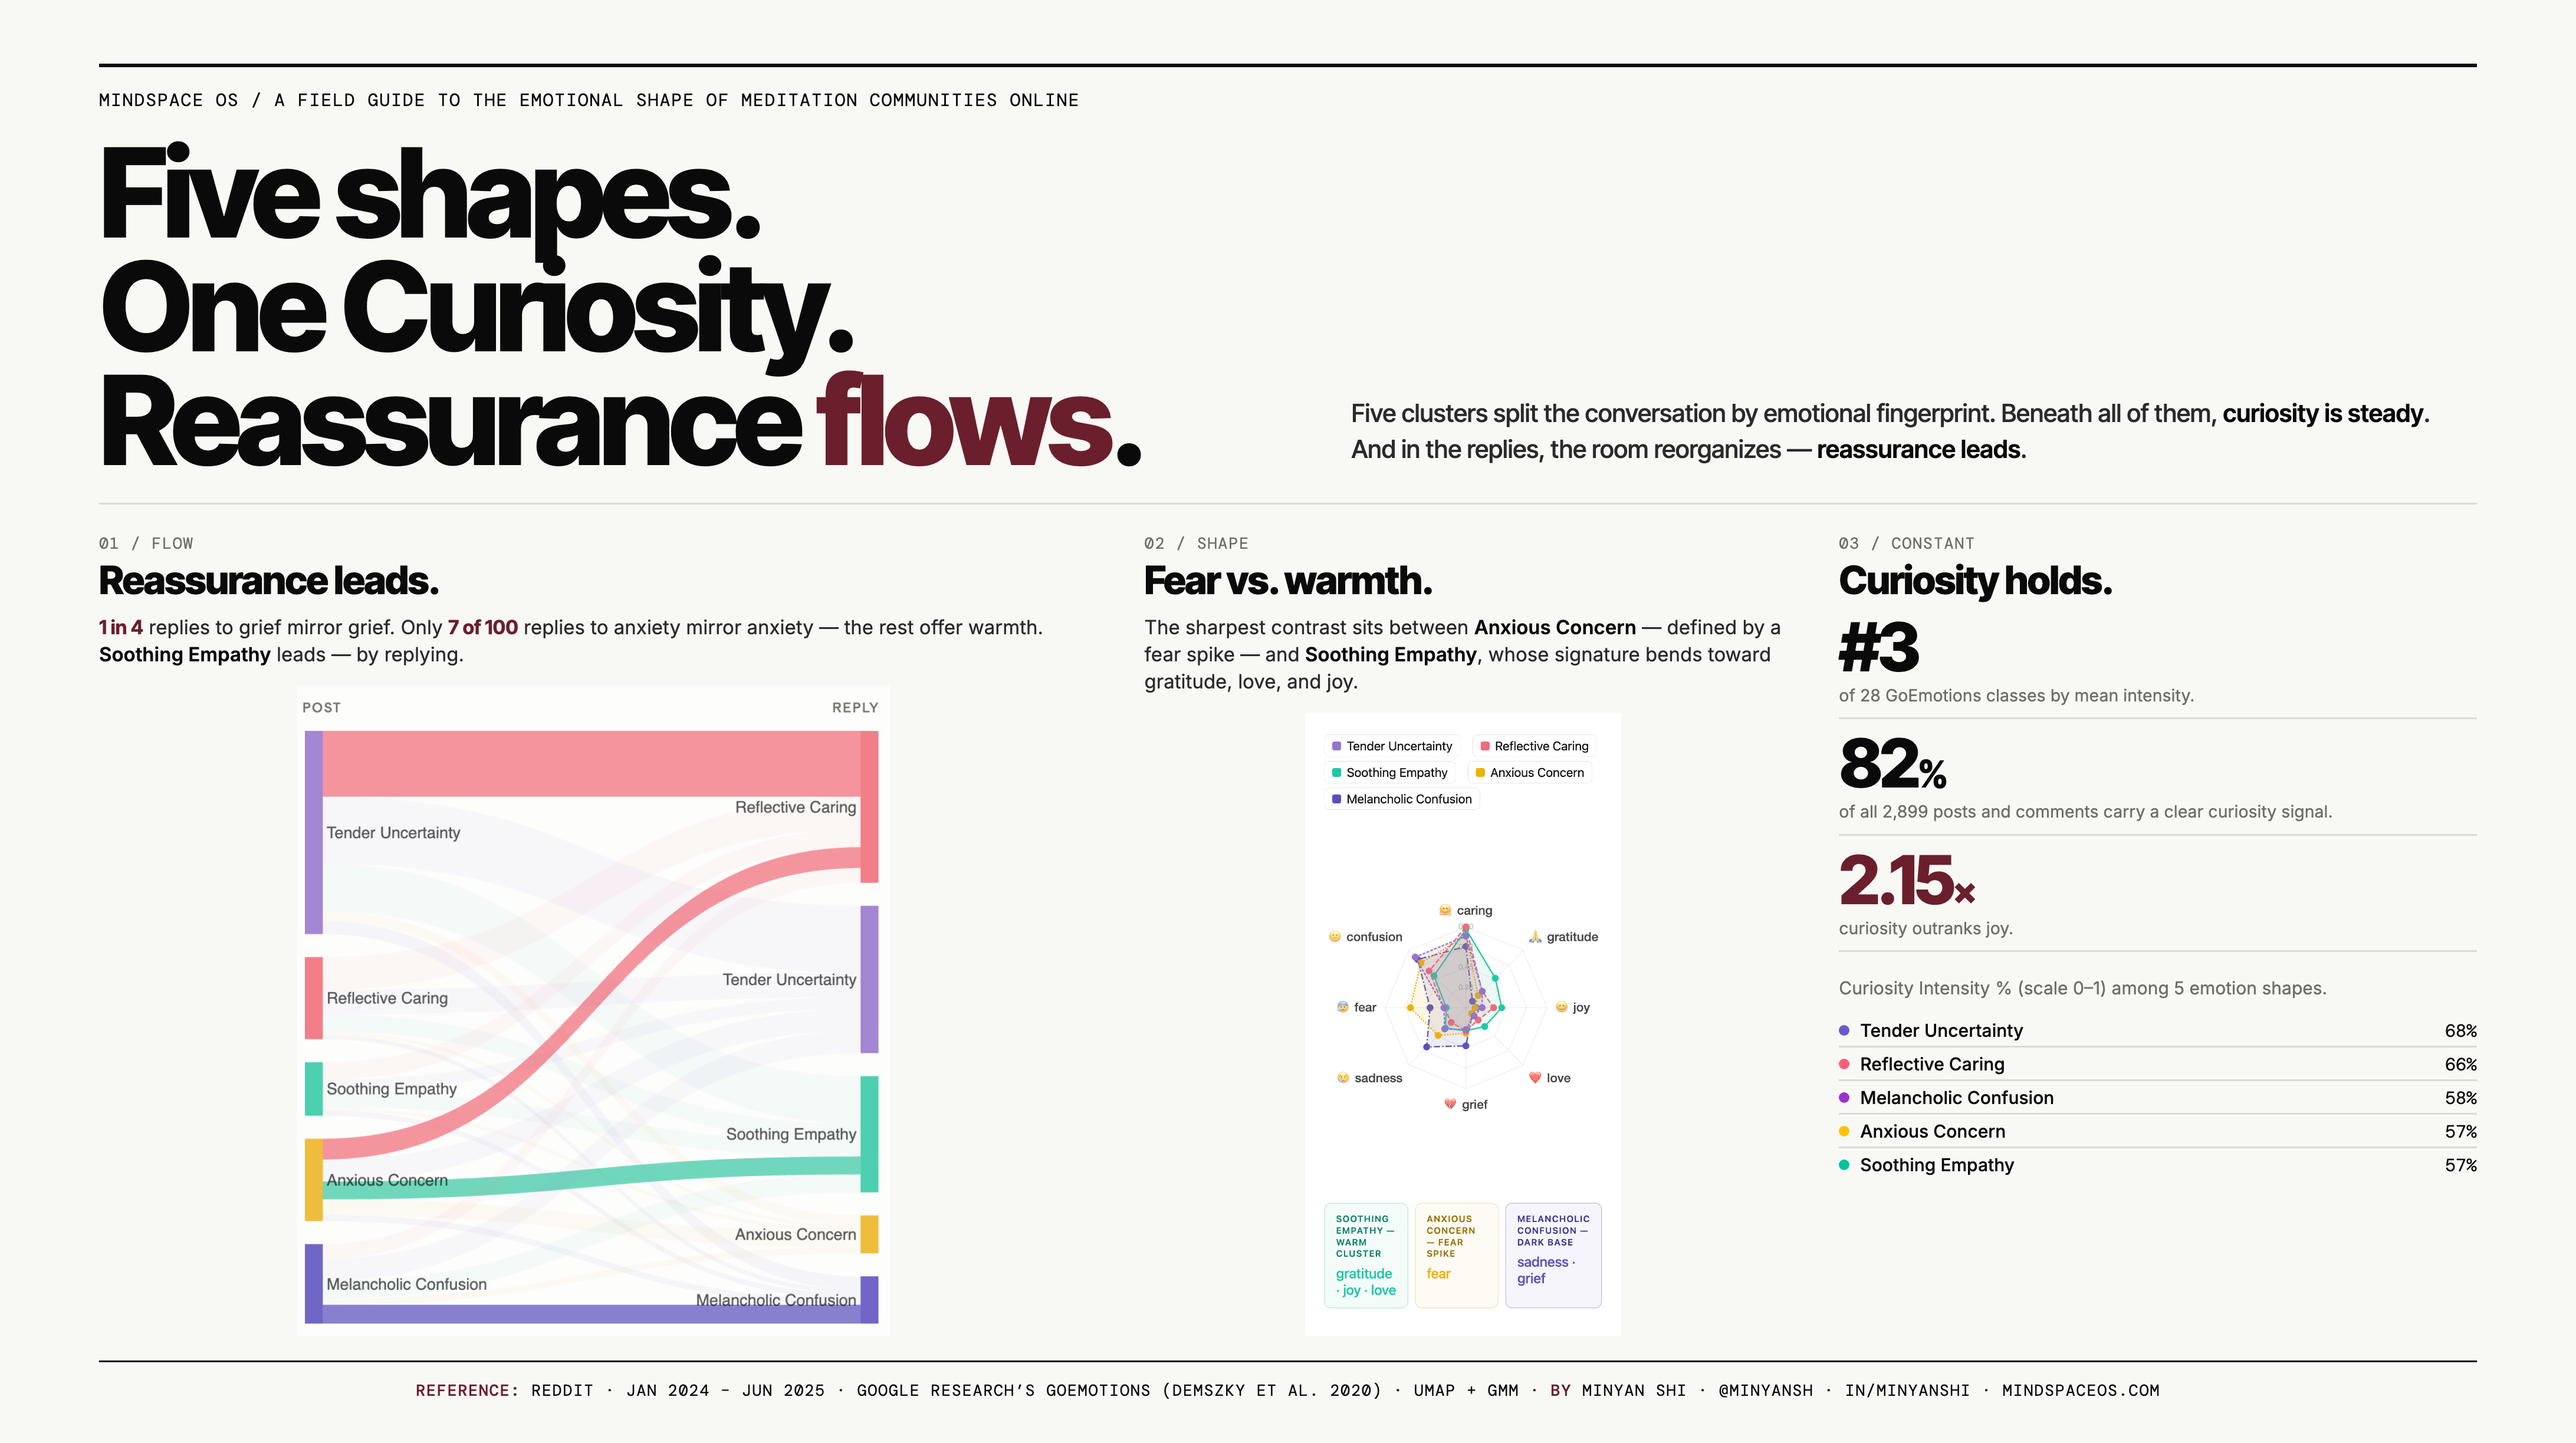
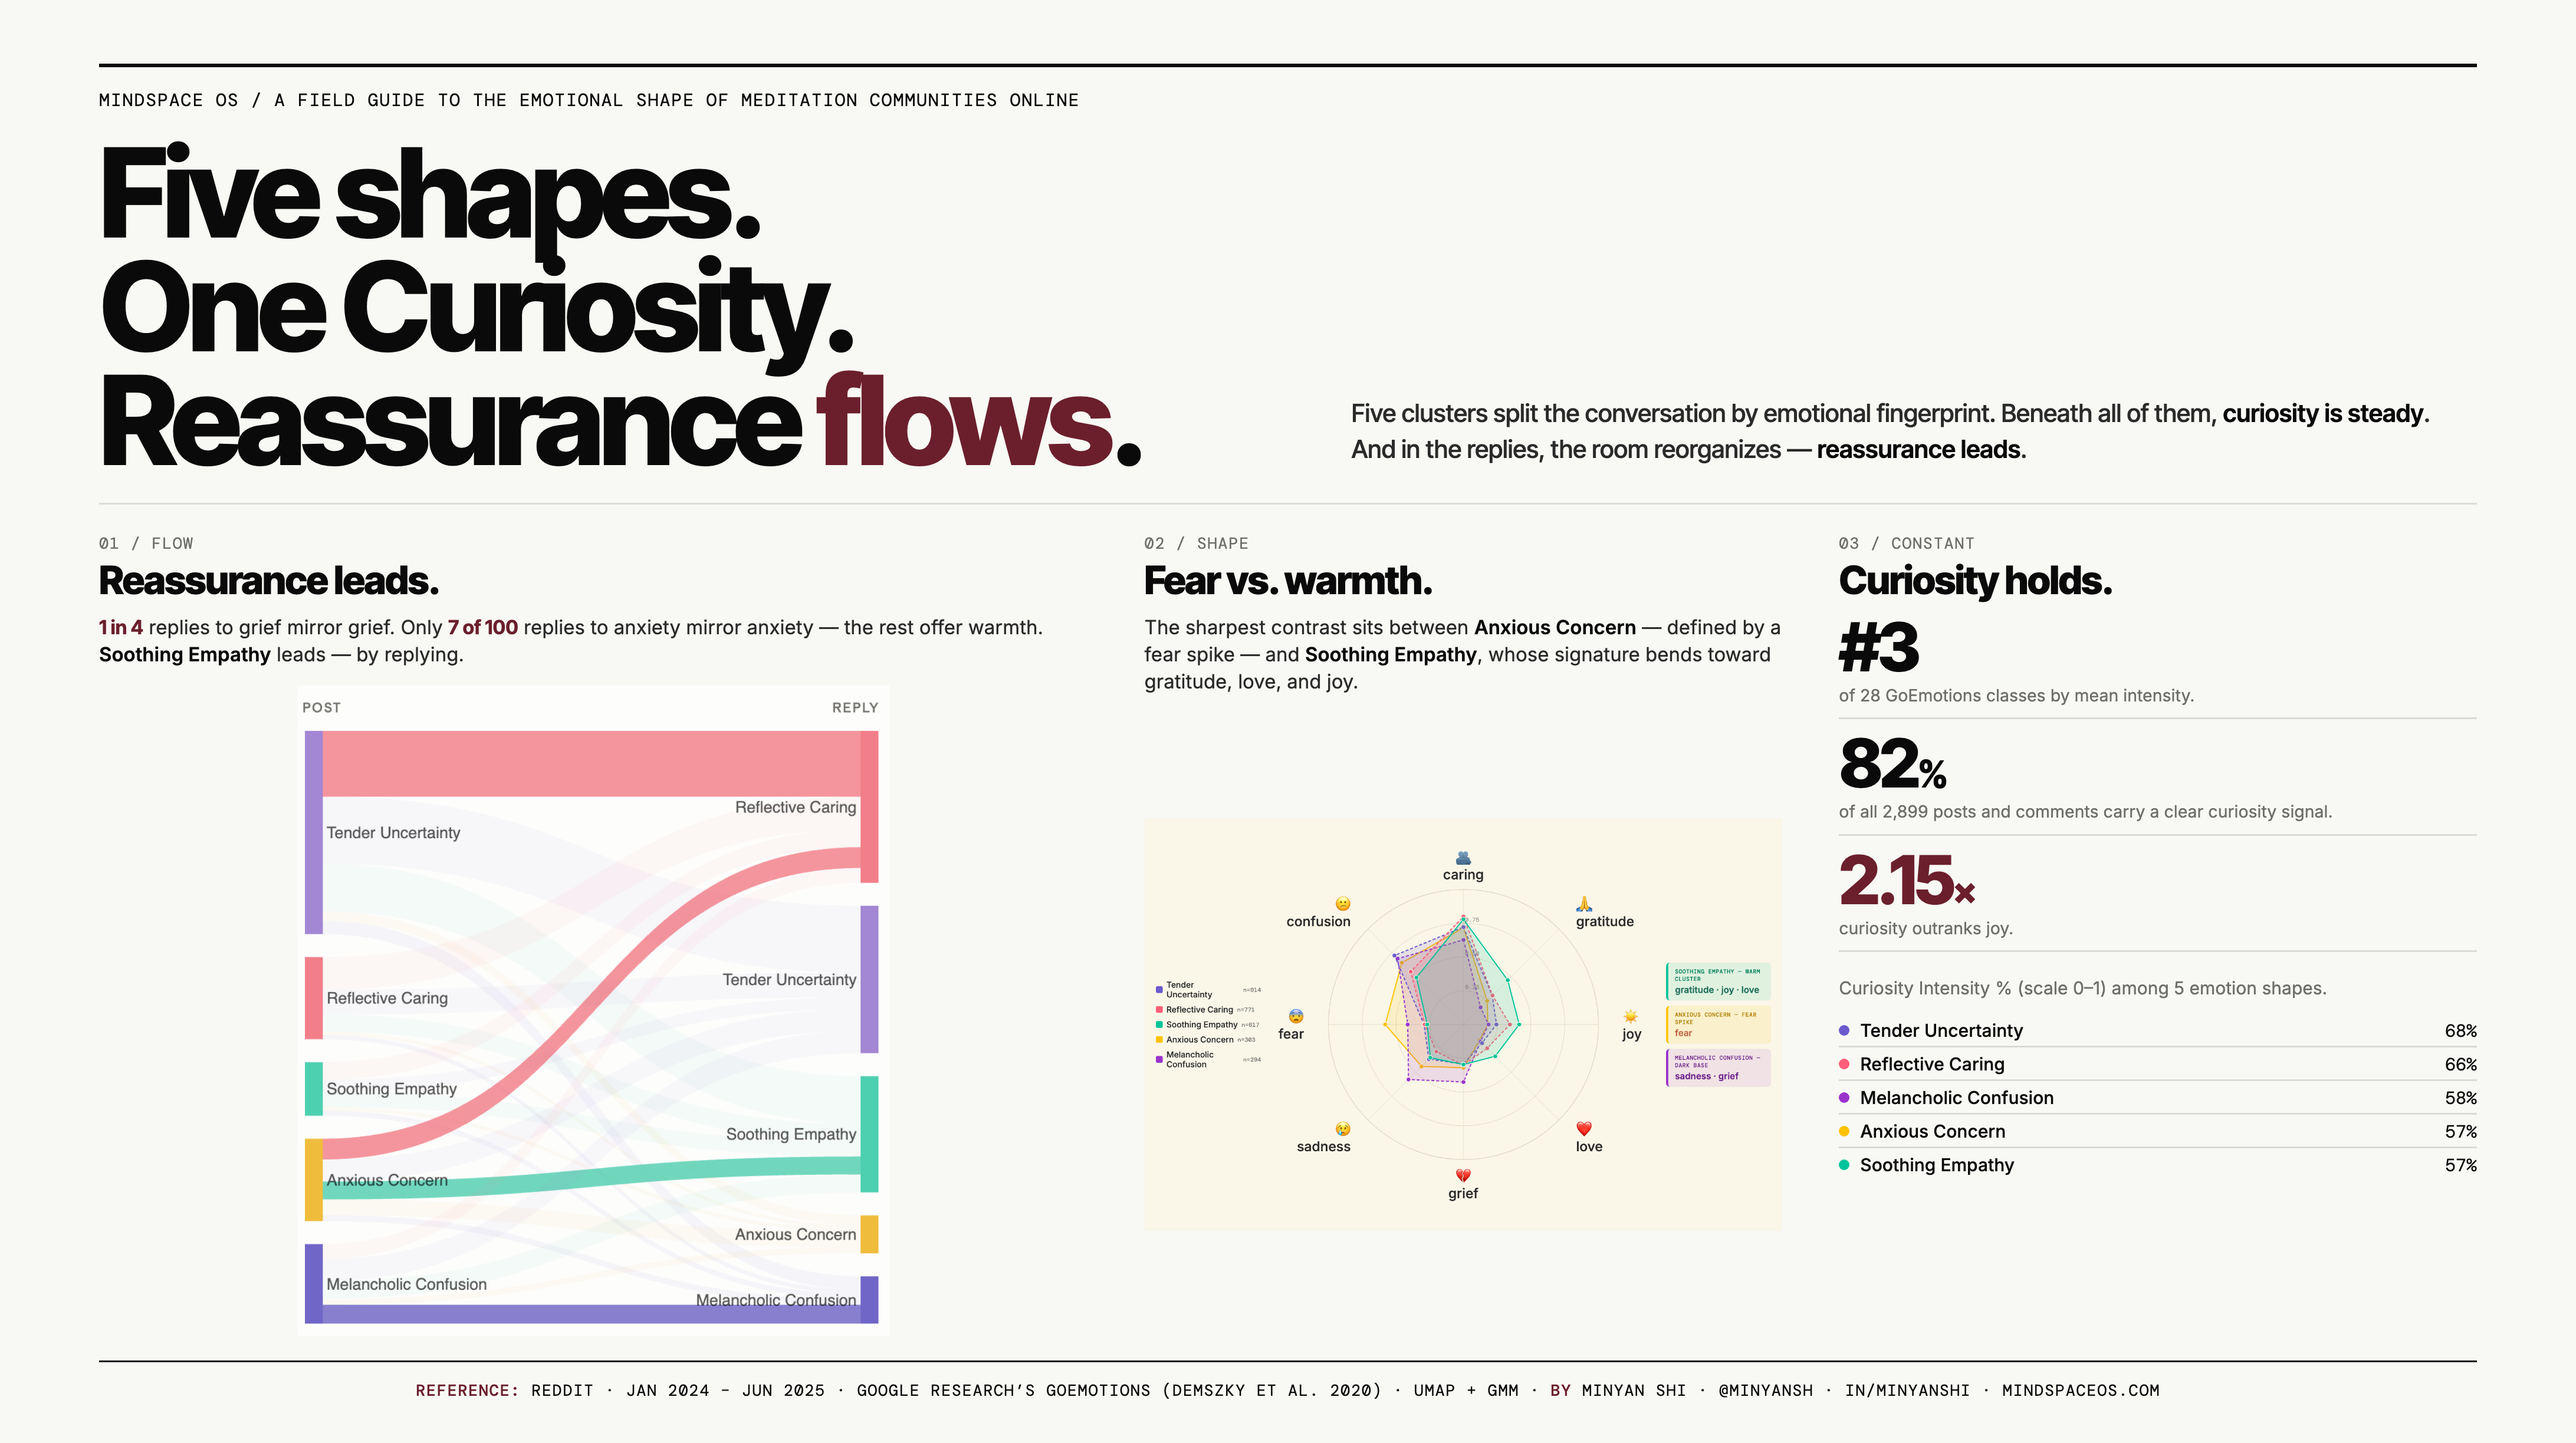
fix(featured): landscape-specific radar source (option a) (#73)
The portrait radar in PR #71 read clean for square layouts but compressed
in landscape (the Shape panel is portrait-aspect inside a landscape grid,
so the portrait radar fits to width then leaves vertical whitespace).

This PR adds a separate landscape-aspect radar source where the legend
sits on the LEFT, the radar plot in the MIDDLE, and the 3 cluster callouts
on the RIGHT. Wider 1700x1100 native aspect.

Files:
- assets/featured-images/dvs-2026-04-27/source-radar-landscape.png (NEW)
- source-landscape.html / source-landscape-hq.html updated to reference
  the new file
- 3 landscape PNGs regenerated (1456x816, 2912x1632, 4368x2448)

Square layout still uses portrait source-radar-v2.png from PR #71.

Marginal improvement only: the radar plot itself stays small because
the landscape Shape panel is still portrait-aspect within a 3-column
grid. A bigger fix would be option (c) — restructure the landscape
layout to give the Shape panel more horizontal room. Holding that for
a follow-up.

NOT auto-deployed to mindspaceos.com. The featured-images live in
assets/ which is repo-only; only site/dist/ deploys to production.
This branch should be reviewed before merging to main.

diff --git a/assets/featured-images/dvs-2026-04-27/source-landscape-hq.html b/assets/featured-images/dvs-2026-04-27/source-landscape-hq.html
@@ -240,7 +240,7 @@ html { zoom: 3; }
       <div class="panel-num">02  /  Shape</div>
       <div class="panel-title">Fear vs. warmth.</div>
       <p class="panel-callout">The sharpest contrast sits between <strong>Anxious Concern</strong> &mdash; defined by a fear spike &mdash; and <strong>Soothing Empathy</strong>, whose signature bends toward gratitude, love, and joy.</p>
-      <div class="fig"><img src="source-radar-v2.png" alt="Radar of 5 archetypes"></div>
+      <div class="fig"><img src="source-radar-landscape.png" alt="Radar of 5 archetypes (landscape composition: legend left, radar middle, cluster callouts right)"></div>
     </div>
 
     <div class="panel">

diff --git a/assets/featured-images/dvs-2026-04-27/source-landscape.html b/assets/featured-images/dvs-2026-04-27/source-landscape.html
@@ -239,7 +239,7 @@
       <div class="panel-num">02  /  Shape</div>
       <div class="panel-title">Fear vs. warmth.</div>
       <p class="panel-callout">The sharpest contrast sits between <strong>Anxious Concern</strong> &mdash; defined by a fear spike &mdash; and <strong>Soothing Empathy</strong>, whose signature bends toward gratitude, love, and joy.</p>
-      <div class="fig"><img src="source-radar-v2.png" alt="Radar of 5 archetypes"></div>
+      <div class="fig"><img src="source-radar-landscape.png" alt="Radar of 5 archetypes (landscape composition: legend left, radar middle, cluster callouts right)"></div>
     </div>
 
     <div class="panel">
